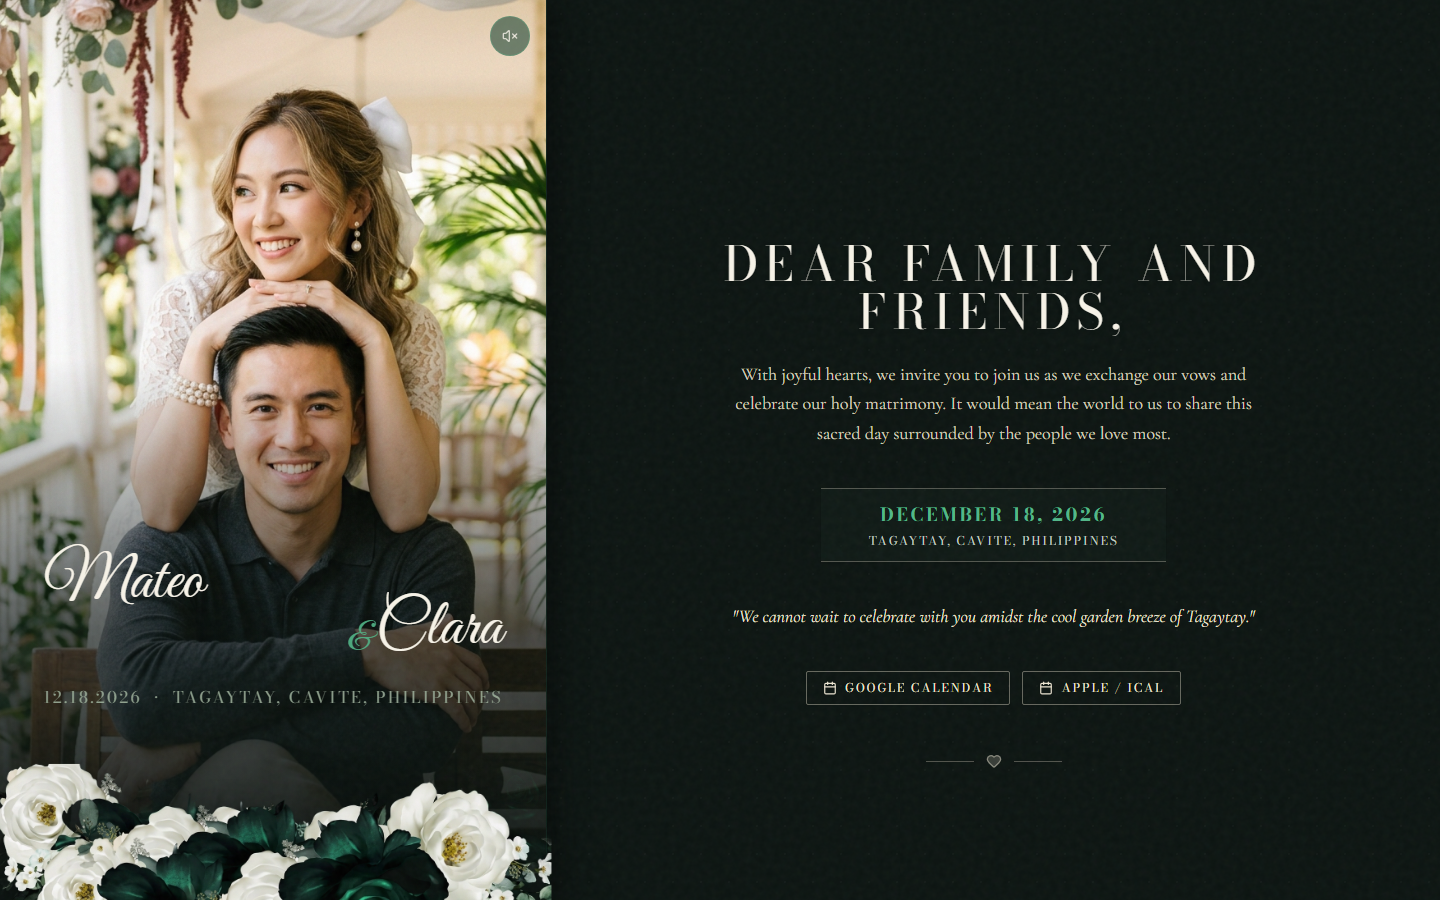
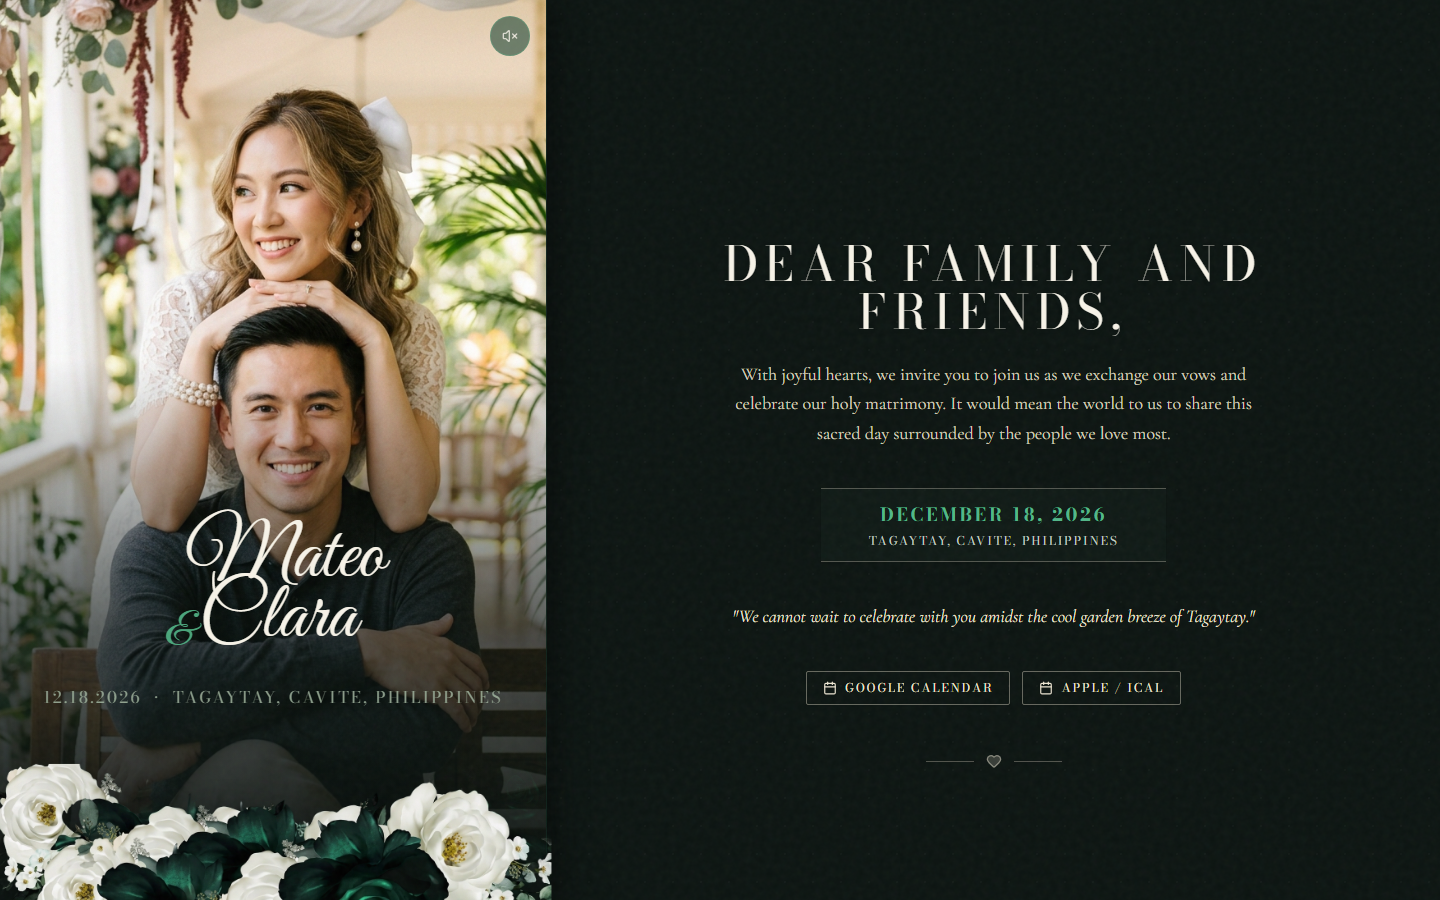
fix: hero names - centered layout with 30% larger font
- Changed font from clamp(1.8rem,5vw,4rem) to clamp(2.3rem,6.5vw,5rem)
- Changed ampersand from clamp(1rem,3vw,2.5rem) to clamp(1.3rem,4vw,3rem)
- Changed layout from left/right aligned to centered (text-center, mx-auto)
- Reduced stagger offset (-mt-1 to -mt-3)
- Added padding for visual balance

Changed region(s): [[0.0312, 0.56, 0.375, 0.7156]]

diff --git a/src/components/Hero.tsx b/src/components/Hero.tsx
@@ -58,22 +58,22 @@ export const Hero: React.FC<HeroProps> = ({ content, isStickyColumn = false }) =
       {/* Spacer to push names to the lower third */}
       <div className="flex-1" />
 
-      {/* Hero Content: Couple Names — constrained to fit within sticky column */}
+      {/* Hero Content: Couple Names — centered with 30% larger font */}
       <div className="relative z-10 w-full px-4 sm:px-6 lg:px-8 pb-0 sm:pb-1 md:pb-2 translate-y-[10px] mx-auto">
-        <h1 className="flex flex-col select-none">
-          {/* First Partner (Mateo) — left-aligned */}
-          <span className="text-left pl-1 sm:pl-2 md:pl-3">
-            <span className="script-font text-[clamp(1.8rem,5vw,4rem)] text-[#F7F3E8] leading-[0.9] drop-shadow-2xl inline-block">
+        <h1 className="flex flex-col select-none text-center">
+          {/* First Partner (Mateo) — centered with slight offset */}
+          <span className="mx-auto pl-2 sm:pl-4 md:pl-6">
+            <span className="script-font text-[clamp(2.3rem,6.5vw,5rem)] text-[#F7F3E8] leading-[0.9] drop-shadow-2xl inline-block">
               {content.partner_1}
             </span>
           </span>
 
-          {/* Ampersand & Second Partner (Clara) — right-aligned, staggered up */}
-          <span className="text-right pr-1 sm:pr-2 md:pr-3 -mt-1 sm:-mt-2 md:-mt-3">
-            <span className="script-font font-light text-[clamp(1rem,3vw,2.5rem)] text-emerald-light/90 mr-1 drop-shadow-xl inline-block align-middle">
+          {/* Ampersand & Second Partner (Clara) — centered with slight offset */}
+          <span className="mx-auto pr-2 sm:pr-4 md:pr-6 -mt-1 sm:-mt-2 md:-mt-3">
+            <span className="script-font font-light text-[clamp(1.3rem,4vw,3rem)] text-emerald-light/90 mr-1 drop-shadow-xl inline-block align-middle">
               &amp;
             </span>
-            <span className="script-font text-[clamp(1.8rem,5vw,4rem)] text-[#F7F3E8] leading-[0.9] drop-shadow-2xl inline-block">
+            <span className="script-font text-[clamp(2.3rem,6.5vw,5rem)] text-[#F7F3E8] leading-[0.9] drop-shadow-2xl inline-block">
               {content.partner_2}
             </span>
           </span>
